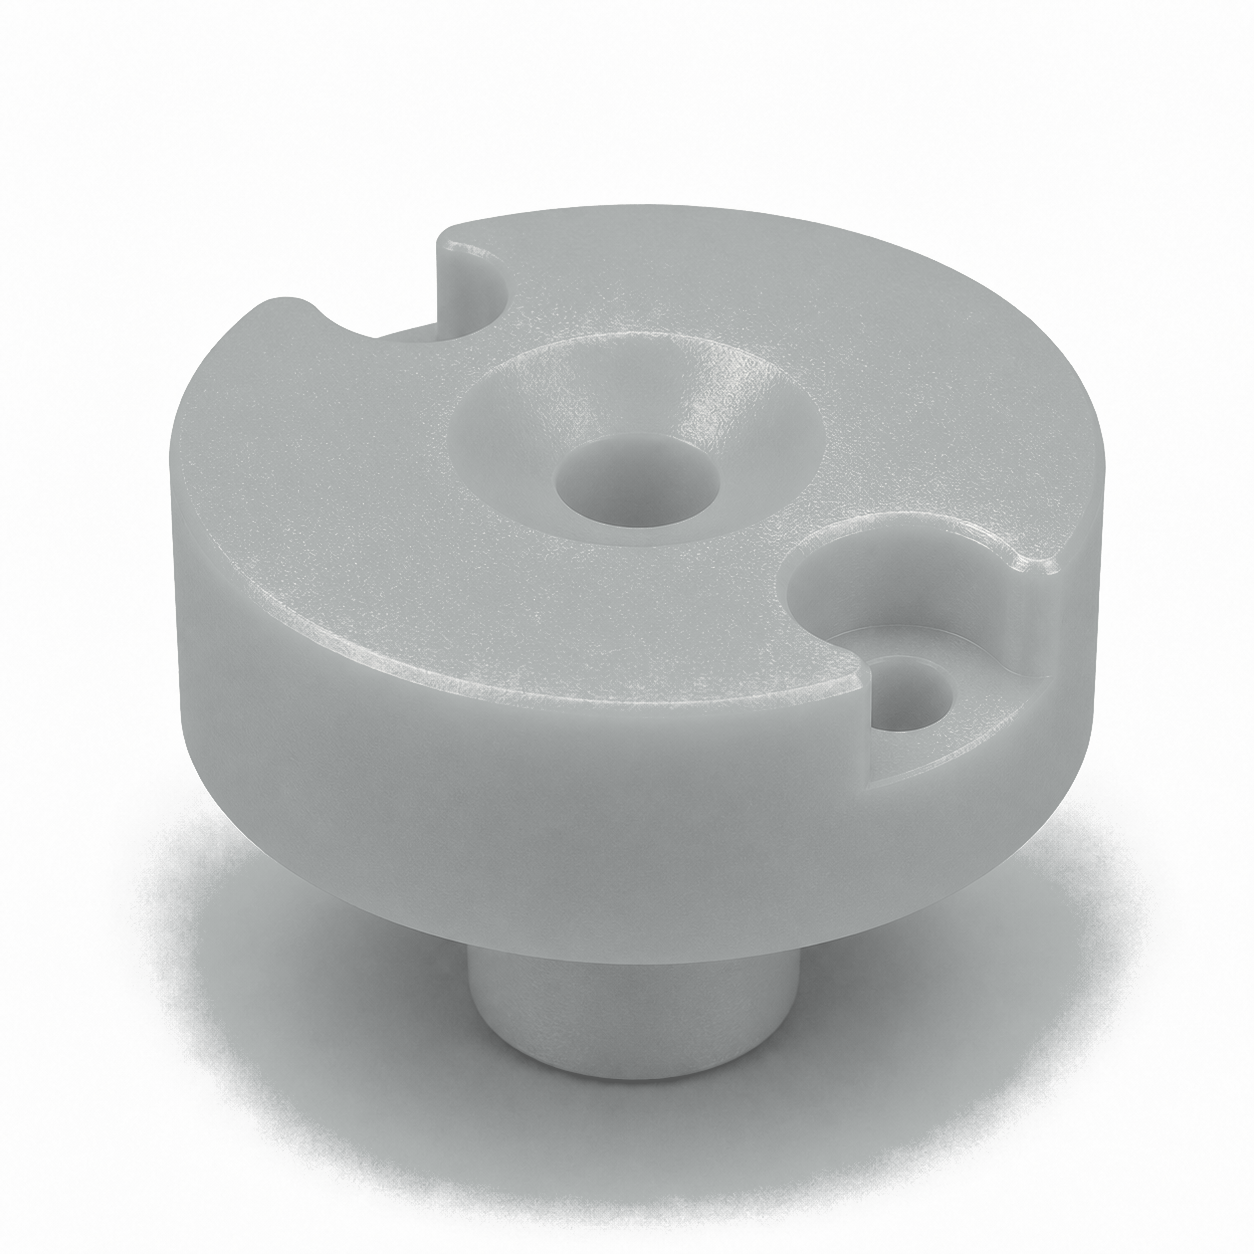
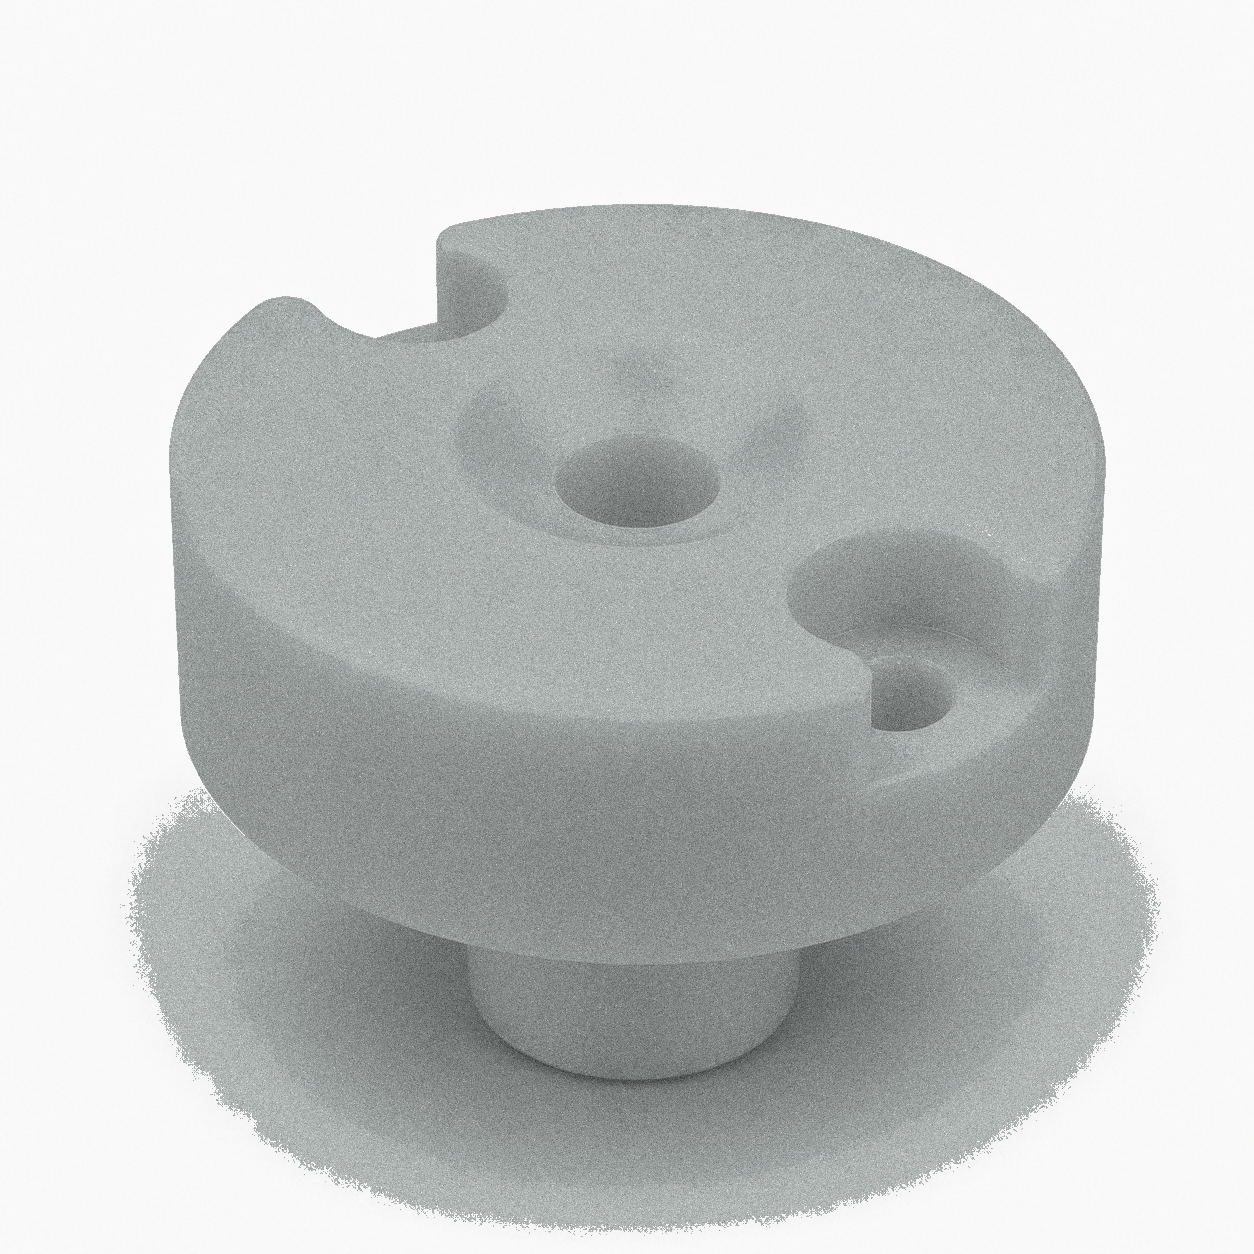
Constrain powder fusion color options

diff --git a/Maliev.Intranet.Client/Components/Project/PartConfigSidebar.razor.cs b/Maliev.Intranet.Client/Components/Project/PartConfigSidebar.razor.cs
@@ -82,6 +82,7 @@ public partial class PartConfigSidebar : ComponentBase
     private const string PaintColorHexKey = "paint_color_hex";
     private const string PaintColorReferenceKey = "paint_color_reference";
     private const string MaterialColorKey = "material_color";
+    private const string PowderFusionNaturalGreyColor = "Natural Grey";
     private const string MaterialImageBasePath = "/images/materials/";
 
     private static readonly Dictionary<string, string> MaterialImages = new(StringComparer.OrdinalIgnoreCase)
@@ -270,6 +271,16 @@ public partial class PartConfigSidebar : ComponentBase
         "Red",
         "Yellow",
         "Green",
+    ];
+
+    private static readonly IReadOnlyList<string> PowderFusionRawColors =
+    [
+        PowderFusionNaturalGreyColor,
+    ];
+
+    private static readonly IReadOnlyList<string> PowderFusionDyeColors =
+    [
+        "Black",
     ];
 
     private static readonly IReadOnlyList<string> PomMaterialColors =
@@ -966,6 +977,12 @@ public partial class PartConfigSidebar : ComponentBase
             || label.Contains("colour", StringComparison.OrdinalIgnoreCase);
     }
 
+    private bool IsPowderFusionColorOption(ProcessConfigOptionDto option) =>
+        IsPowderFusionProcess
+        && !IsPaintColorOption(option)
+        && !IsAnodizeColorOption(option)
+        && (IsMaterialColorOption(option) || IsGenericColorOption(option));
+
     private bool IsPaintColorOption(ProcessConfigOptionDto option) =>
         IsPaintSpecificColorOption(option)
         || (IsPaintedFinish() && !HasPaintSpecificColorOption && IsGenericColorOption(option));
@@ -1081,11 +1098,43 @@ public partial class PartConfigSidebar : ComponentBase
         return new string(chars);
     }
 
+    private bool IsPowderFusionProcess =>
+        IsProcess("SLS") || IsProcess("MJF");
+
     private bool IsPaintedFinish() =>
-        Part?.FinishCode?.Contains("paint", StringComparison.OrdinalIgnoreCase) == true;
+        FinishContains("paint") && !FinishContains("unpaint");
+
+    private bool IsDyeFinish() =>
+        FinishContains("dye") || FinishContains("dyed");
+
+    private bool IsRawPowderFusionFinish =>
+        IsPowderFusionProcess && !IsPaintedFinish() && !IsDyeFinish();
 
     private bool IsAnodizeFinish() =>
-        Part?.FinishCode?.Contains("anod", StringComparison.OrdinalIgnoreCase) == true;
+        FinishContains("anod");
+
+    private bool FinishContains(string value) =>
+        Part?.FinishCode?.Contains(value, StringComparison.OrdinalIgnoreCase) == true
+        || SelectedFinish?.Code.Contains(value, StringComparison.OrdinalIgnoreCase) == true
+        || SelectedFinish?.Name.Contains(value, StringComparison.OrdinalIgnoreCase) == true
+        || SelectedFinish?.Description?.Contains(value, StringComparison.OrdinalIgnoreCase) == true;
+
+    private static bool IsPowderFusionRawSurfaceFinish(CatalogSurfaceFinishDto finish) =>
+        (ContainsFinishText(finish, "as printed")
+            || ContainsFinishText(finish, "as-printed")
+            || ContainsFinishText(finish, "as_printed")
+            || ContainsFinishText(finish, "natural")
+            || ContainsFinishText(finish, "raw")
+            || ContainsFinishText(finish, "standard")
+            || ContainsFinishText(finish, "unpaint"))
+        && !ContainsFinishText(finish, "dye")
+        && !ContainsFinishText(finish, "dyed")
+        && (!ContainsFinishText(finish, "paint") || ContainsFinishText(finish, "unpaint"));
+
+    private static bool ContainsFinishText(CatalogSurfaceFinishDto finish, string value) =>
+        finish.Code.Contains(value, StringComparison.OrdinalIgnoreCase)
+        || finish.Name.Contains(value, StringComparison.OrdinalIgnoreCase)
+        || finish.Description?.Contains(value, StringComparison.OrdinalIgnoreCase) == true;
 
     private string GetToleranceRange(CatalogToleranceDto tolerance)
     {
@@ -1118,8 +1167,17 @@ public partial class PartConfigSidebar : ComponentBase
             .Replace("  ", " ", StringComparison.Ordinal)
             .Trim();
 
-    private static IEnumerable<string> GetOptionChoices(ProcessConfigOptionDto option)
+    private IEnumerable<string> GetOptionChoices(ProcessConfigOptionDto option)
     {
+        if (IsPowderFusionColorOption(option))
+        {
+            if (IsRawPowderFusionFinish)
+                return PowderFusionRawColors;
+
+            if (IsDyeFinish())
+                return PowderFusionDyeColors;
+        }
+
         if (!string.IsNullOrWhiteSpace(option.OptionsJson))
         {
             var parsed = ParseOptionChoices(option.OptionsJson);
@@ -1135,6 +1193,21 @@ public partial class PartConfigSidebar : ComponentBase
             return DefaultPlasticColors;
 
         return [];
+    }
+
+    private string? GetCurrentOptionChoiceValue(ProcessConfigOptionDto option, IReadOnlyList<string> options)
+    {
+        var currentValue = Part?.ProcessOptionValues.TryGetValue(option.ConfigKey, out var value) == true
+            ? value
+            : option.DefaultValue;
+
+        if (!string.IsNullOrWhiteSpace(currentValue)
+            && options.Contains(currentValue, StringComparer.OrdinalIgnoreCase))
+        {
+            return currentValue;
+        }
+
+        return options.FirstOrDefault();
     }
 
     private static List<string> ParseOptionChoices(string optionsJson)
@@ -1233,8 +1306,11 @@ public partial class PartConfigSidebar : ComponentBase
     private static string GetMaterialColorImageUrl(string color) =>
         MaterialImageBasePath + GetMappedImage(ColorImages, color, "natural-plastic-part-material.png");
 
-    private static string GetSurfaceFinishImageUrl(CatalogSurfaceFinishDto finish)
+    private string GetSurfaceFinishImageUrl(CatalogSurfaceFinishDto finish)
     {
+        if (IsPowderFusionProcess && IsPowderFusionRawSurfaceFinish(finish))
+            return MaterialImageBasePath + "natural-grey-plastic-part-material.png";
+
         var displayKey = GetSurfaceFinishDisplayKey(finish);
         foreach (var token in GetImageLookupTokens(displayKey, finish.Code, finish.Name, finish.Description))
         {
@@ -1275,8 +1351,11 @@ public partial class PartConfigSidebar : ComponentBase
     private static string GetCustomPaintImageUrl() =>
         MaterialImageBasePath + "finish-painted-part-surface.png";
 
-    private static string GetColorChoiceImageUrl(ProcessConfigOptionDto option, string value)
+    private string GetColorChoiceImageUrl(ProcessConfigOptionDto option, string value)
     {
+        if (IsPowderFusionColorOption(option))
+            return GetMaterialColorImageUrl(value);
+
         if (IsAnodizeColorOption(option))
             return MaterialImageBasePath + GetMappedImage(AnodizeColorImages, value, "finish-anodized-clear-part-surface.png");
 
@@ -1448,6 +1527,12 @@ public partial class PartConfigSidebar : ComponentBase
         {
             foreach (var key in Part.ProcessOptionValues.Keys.Where(IsMaterialColorOptionKey).ToList())
                 Part.ProcessOptionValues.Remove(key);
+        }
+
+        if (IsRawPowderFusionFinish)
+        {
+            foreach (var option in Part.AvailableProcessOptions.Where(IsPowderFusionColorOption))
+                Part.ProcessOptionValues[option.ConfigKey] = PowderFusionNaturalGreyColor;
         }
 
         if (!IsAnodizeFinish())

diff --git a/Maliev.Intranet.Tests/Client/Components/PartConfigSidebarRenderTests.cs b/Maliev.Intranet.Tests/Client/Components/PartConfigSidebarRenderTests.cs
@@ -202,6 +202,130 @@ public sealed class PartConfigSidebarRenderTests : BunitContext, IAsyncLifetime
     }
 
     [Fact]
+    public void PowderFusionColorOption_WhenFinishIsRaw_IsLimitedToNaturalGrey()
+    {
+        var materialId = Guid.NewGuid();
+        var finishId = Guid.NewGuid();
+        var part = new PartViewModel
+        {
+            FileId = Guid.Empty,
+            Name = "fixture.step",
+            ProcessCode = "MJF",
+            MaterialId = materialId,
+            FinishId = finishId,
+            FinishCode = "AS_PRINTED",
+            AvailableMaterials =
+            [
+                new CatalogMaterialDto(materialId, "PA12", "PA12", "Plastic", null, "MJF nylon powder", 10),
+            ],
+            AvailableFinishes =
+            [
+                new CatalogSurfaceFinishDto(finishId, "As printed", "AS_PRINTED", 0m, 0m, "Raw natural grey powder finish", 10),
+            ],
+            AvailableProcessOptions =
+            [
+                new ProcessConfigOptionDto(
+                    Guid.NewGuid(),
+                    "material_color",
+                    "Material color",
+                    "dropdown",
+                    "Black",
+                    "[\"Black\",\"White\",\"Natural Grey\"]",
+                    null,
+                    null,
+                    false,
+                    10),
+            ],
+        };
+
+        var cut = Render<PartConfigSidebar>(parameters => parameters
+            .Add(p => p.Part, part)
+            .Add(p => p.Processes, []));
+
+        var colorChoices = cut.FindAll(".pcs-color-choice");
+
+        Assert.Single(colorChoices);
+        Assert.Contains("Natural Grey", colorChoices.First().TextContent, StringComparison.Ordinal);
+        Assert.DoesNotContain(colorChoices, choice => choice.TextContent.Contains("Black", StringComparison.Ordinal));
+        Assert.DoesNotContain(colorChoices, choice => choice.TextContent.Contains("White", StringComparison.Ordinal));
+        Assert.NotNull(cut.Find(".pcs-color-choice img[src='/images/materials/natural-grey-plastic-part-material.png']"));
+    }
+
+    [Fact]
+    public void PowderFusionColorOption_WhenFinishIsDyed_AllowsOnlyDyeColor()
+    {
+        var materialId = Guid.NewGuid();
+        var finishId = Guid.NewGuid();
+        var part = new PartViewModel
+        {
+            FileId = Guid.Empty,
+            Name = "fixture.step",
+            ProcessCode = "SLS",
+            MaterialId = materialId,
+            FinishId = finishId,
+            FinishCode = "DYED_BLACK",
+            AvailableMaterials =
+            [
+                new CatalogMaterialDto(materialId, "PA12", "PA12", "Plastic", null, "SLS nylon powder", 10),
+            ],
+            AvailableFinishes =
+            [
+                new CatalogSurfaceFinishDto(finishId, "Dyed black", "DYED_BLACK", 0m, 0m, "Black dye post processing", 10),
+            ],
+            AvailableProcessOptions =
+            [
+                new ProcessConfigOptionDto(
+                    Guid.NewGuid(),
+                    "material_color",
+                    "Material color",
+                    "dropdown",
+                    "Natural Grey",
+                    "[\"Black\",\"White\",\"Natural Grey\"]",
+                    null,
+                    null,
+                    false,
+                    10),
+            ],
+        };
+
+        var cut = Render<PartConfigSidebar>(parameters => parameters
+            .Add(p => p.Part, part)
+            .Add(p => p.Processes, []));
+
+        var colorChoices = cut.FindAll(".pcs-color-choice");
+
+        Assert.Single(colorChoices);
+        Assert.Contains("Black", colorChoices.First().TextContent, StringComparison.Ordinal);
+        Assert.DoesNotContain(colorChoices, choice => choice.TextContent.Contains("White", StringComparison.Ordinal));
+        Assert.DoesNotContain(colorChoices, choice => choice.TextContent.Contains("Natural Grey", StringComparison.Ordinal));
+        Assert.NotNull(cut.Find(".pcs-color-choice img[src='/images/materials/black-plastic-part-material.png']"));
+    }
+
+    [Fact]
+    public void PowderFusionSurfaceFinish_WhenRaw_UsesNaturalGreyPowderThumbnail()
+    {
+        var finishId = Guid.NewGuid();
+        var part = new PartViewModel
+        {
+            FileId = Guid.Empty,
+            Name = "fixture.step",
+            ProcessCode = "MJF",
+            FinishId = finishId,
+            FinishCode = "AS_PRINTED",
+            AvailableFinishes =
+            [
+                new CatalogSurfaceFinishDto(finishId, "As printed", "AS_PRINTED", 0m, 0m, "Raw natural grey powder finish", 10),
+            ],
+        };
+
+        var cut = Render<PartConfigSidebar>(parameters => parameters
+            .Add(p => p.Part, part)
+            .Add(p => p.Processes, []));
+
+        Assert.NotNull(cut.Find(".pcs-fin-card img[src='/images/materials/natural-grey-plastic-part-material.png']"));
+    }
+
+    [Fact]
     public void ConfiguratorOptionImages_UsePartBasedRepresentationsForAllOptionGroups()
     {
         var materialId = Guid.NewGuid();
